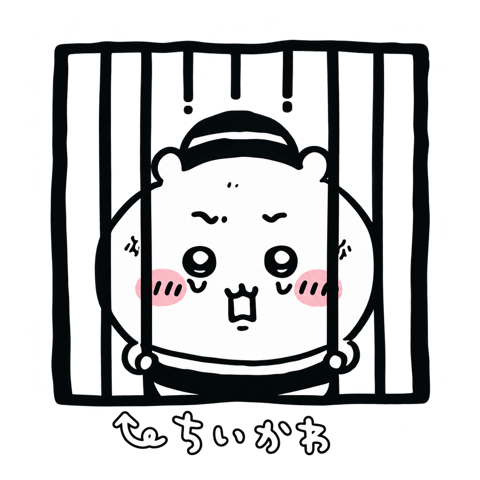
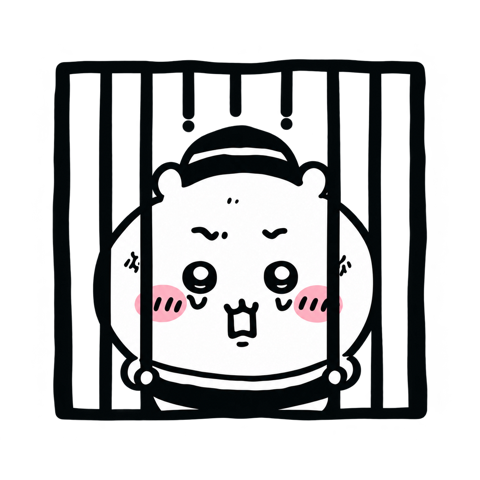
Unify image home shortcuts and remove COF entrance caption

Changed region(s): [[0.0938, 0.0625, 0.9062, 0.9688]]

diff --git a/tools/home/return-home.js b/tools/home/return-home.js
@@ -1,13 +1,36 @@
-/* Survival's standalone homepage shortcut; no account or app state access. */
+/* Shared home shortcut. Reads layout only; never accesses account or app state. */
 (()=>{
   const mount=()=>{
     if(document.getElementById('chemex-return-home'))return;
-    const link=document.createElement('a');
-    link.id='chemex-return-home';link.href='/';link.title='返回 ChemEx 主页';link.setAttribute('aria-label','返回 ChemEx 主页');
-    const image=document.createElement('img');image.src='/home-assets/return-home.png?v=20261020';image.alt='返回 ChemEx 主页';image.width=44;image.height=44;
+    const survival=location.pathname.startsWith('/survival/');
+    const link=document.createElement('a');link.id='chemex-return-home';link.href='/';link.title='返回 ChemEx 主页';link.setAttribute('aria-label','返回 ChemEx 主页');
+    const image=document.createElement('img');image.src='/home-assets/return-home.png?v=20261020';image.alt='';image.width=56;image.height=56;
     image.style.cssText='display:block;width:100%;height:100%;object-fit:contain';link.append(image);
-    link.style.cssText='position:fixed;left:max(12px,env(safe-area-inset-left));top:max(12px,env(safe-area-inset-top));width:44px;height:44px;z-index:1000;background:transparent;border:0;border-radius:12px;cursor:pointer;';
-    document.body.append(link);
+    link.style.cssText='position:fixed;left:max(12px,env(safe-area-inset-left));top:max(12px,env(safe-area-inset-top));width:56px;height:56px;z-index:1000;background:transparent;border:0;border-radius:12px;cursor:pointer;';document.body.append(link);
+    let queued=false;
+    const place=()=>{
+      queued=false;
+      if(survival){
+        const visible=e=>e.getBoundingClientRect().width>0 && e.getBoundingClientRect().height>0;
+        const clock=[...document.querySelectorAll('.desktop-time-panel strong')].find(visible) || [...document.querySelectorAll('.player-shell .top-bar h1,.mobile-shell .top-bar h1,.top-bar h1')].find(visible);
+        link.hidden=!clock;
+        if(clock){
+          const range=document.createRange();range.selectNodeContents(clock);const r=range.getBoundingClientRect();
+          link.style.left=Math.max(8,Math.min(r.right+10,innerWidth-64))+'px';
+          link.style.top=Math.max(8,r.top+(r.height-56)/2)+'px';
+        }
+      }else{
+        // Keep the reader's own back-to-library control and other header controls usable.
+        for(const header of document.querySelectorAll('.site-header,.reader-header,header.top')){
+          if(header.getBoundingClientRect().left<76)header.style.paddingLeft='80px';
+        }
+        for(const old of document.querySelectorAll('header.top a.back,.site-header nav a[href="../"]'))old.hidden=true;
+      }
+    };
+    const schedule=()=>{if(!queued){queued=true;requestAnimationFrame(place)}};
+    new MutationObserver(schedule).observe(document.body,{childList:true,subtree:true});
+    window.addEventListener('resize',schedule,{passive:true});window.addEventListener('scroll',schedule,{passive:true});
+    place();
   };
   if(document.readyState==='loading')document.addEventListener('DOMContentLoaded',mount,{once:true});else mount();
 })();

diff --git a/tools/home/index.html b/tools/home/index.html
@@ -2,7 +2,7 @@
 <a class="skip" href="#main">跳到主要内容</a><header><a class="brand" href="/" aria-label="ChemEx 首页">Che<span>m</span>E<span>x</span><i></i></a><a class="account" href="/auth/account">账号 ↗</a></header>
 <main id="main"><h1 class="sr">我的主页</h1>
 <div class="entrance-grid" aria-label="工具入口">
-<a class="entrance" id="research" href="/research/" aria-label="进入 COF 科研工具箱"><img src="/home-assets/entrances/cof.png?v=jail-20261020" width="480" height="480" alt="" fetchpriority="high"><h2>COF 科研工具箱</h2><small>RESEARCH</small></a>
+<a class="entrance" id="research" href="/research/" aria-label="进入 COF 科研工具箱"><img src="/home-assets/entrances/cof.png?v=no-caption-20261020" width="480" height="480" alt="" fetchpriority="high"><h2>COF 科研工具箱</h2><small>RESEARCH</small></a>
 <a class="entrance" id="entertainment" href="/miying/" aria-label="进入觅影"><img src="/home-assets/entrances/miying.png" width="480" height="480" alt=""><h2>觅影 · 影视</h2><small>MIYING</small></a>
 <a class="entrance" href="/epubreader/" aria-label="进入 EPUB 阅读器"><img src="/home-assets/entrances/epubreader.png" width="480" height="480" alt=""><h2>EPUB · 阅读</h2><small>EPUBREADER</small></a>
 <a class="entrance" id="life" href="/survival/" aria-label="进入生存计划"><img src="/home-assets/entrances/survival.png" width="480" height="480" alt=""><h2>生存计划</h2><small>SURVIVAL</small></a>

diff --git a/scripts/deploy-return-links.py b/scripts/deploy-return-links.py
@@ -1,0 +1,62 @@
+"""Publish the shared home shortcut without replacing live application sources."""
+import datetime,hashlib,json,os,re,shutil,subprocess,sys,tarfile
+from pathlib import Path
+
+SCRIPT='<script defer src="/home-assets/return-home.js?v=shared-56-20261020"></script>'
+OLD='<script defer src="/home-assets/return-home.js?v=20261020"></script>'
+
+def update_nginx(original):
+    updated=original
+    for route in ['survival','research','miying','epubreader']:
+        pattern=r'(    location \^~ /'+route+r'/ \{\n)(.*?)(    }\n)'
+        def patch(match):
+            body=match[2]
+            if SCRIPT in body:raise RuntimeError('Already installed')
+            if route=='survival':
+                if body.count(OLD)!=1:raise RuntimeError('Inspect Survival shortcut')
+                body=body.replace(OLD,SCRIPT,1)
+            elif "sub_filter '</head>'" in body:
+                body,count=re.subn(r"(sub_filter '</head>' '[^\n]*)(</head>';)",lambda m:m[1]+SCRIPT+m[2],body)
+                if count!=1:raise RuntimeError('Inspect existing head filter')
+            else:
+                if 'sub_filter' in body:raise RuntimeError('Inspect other filters')
+                body="        sub_filter_once on;\n        sub_filter '</head>' '"+SCRIPT+"</head>';\n"+body
+            return match[1]+body+match[3]
+        updated,count=re.subn(pattern,patch,updated,flags=re.S)
+        if count!=1:raise RuntimeError('Expected unique '+route+' location')
+    return updated
+
+def main():
+    commit,archive_path=sys.argv[1:]
+    if not re.fullmatch('[0-9a-f]{40}',commit):raise ValueError('Expected full commit')
+    base=Path('/srv/chemex/home');current=base/'current';source=current.resolve(strict=True)
+    if not current.is_symlink() or source.parent!=base/'releases':raise RuntimeError('Unmanaged home')
+    if any(p.is_symlink() for p in source.rglob('*')):raise RuntimeError('Inspect nested symlinks')
+    config=Path('/etc/nginx/sites-available/chemex-space.conf');original=config.read_text();updated=update_nginx(original)
+    with tarfile.open(archive_path) as archive:
+        members=archive.getmembers()
+        if sorted(m.name for m in members)!=['cof.png','return-home.js']:raise RuntimeError('Unexpected archive entries')
+        changes={}
+        for member in members:
+            if not member.isfile() or member.size>2000000:raise RuntimeError('Unexpected file')
+            changes['assets/entrances/cof.png' if member.name=='cof.png' else 'assets/return-home.js']=archive.extractfile(member).read()
+    html=(source/'index.html').read_bytes()
+    old=b'cof.png?v=jail-20261020';new=b'cof.png?v=no-caption-20261020'
+    if html.count(old)!=1:raise RuntimeError('Unexpected COF image URL')
+    changes['index.html']=html.replace(old,new,1)
+    release=base/'releases'/commit;shutil.copytree(source,release)
+    for name,data in changes.items():(release/name).write_bytes(data);(release/name).chmod(0o644)
+    for p in source.rglob('*'):
+        rel=str(p.relative_to(source))
+        if p.is_file() and rel not in changes:
+            if hashlib.sha256(p.read_bytes()).digest()!=hashlib.sha256((release/rel).read_bytes()).digest():raise RuntimeError('Unexpected resource change')
+    backup=base/'backups'/datetime.datetime.now(datetime.timezone.utc).strftime('%Y%m%dT%H%M%SZ');backup.mkdir(parents=True);shutil.copy2(config,backup/'nginx.conf')
+    pending=base/('current-'+commit);pending.symlink_to(release);os.replace(pending,current)
+    try:
+        config.write_text(updated);subprocess.run(['nginx','-t'],check=True);subprocess.run(['systemctl','reload','nginx'],check=True)
+    except Exception:
+        shutil.copy2(backup/'nginx.conf',config);pending.symlink_to(source);os.replace(pending,current)
+        subprocess.run(['nginx','-t'],check=True);subprocess.run(['systemctl','reload','nginx'],check=True);raise
+    print(json.dumps({'commit':commit,'previous':str(source),'release':str(release),'backup':str(backup),'changes':list(changes)}))
+
+if __name__=='__main__':main()

diff --git a/docs/PERSONAL_HOME.md b/docs/PERSONAL_HOME.md
@@ -40,3 +40,7 @@ COF uses the owner-provided jail-bar illustration with transparent exterior and 
 The Survival page includes a 44px transparent character link in the top-left corner back to `/`, named 返回 ChemEx 主页 for accessibility. Its independent script is injected alongside the existing authenticated session bridge; it does not read or change app/account state. deploy-home-navigation.py installs layout and shortcut assets in a new home release and backs up Nginx before adding only that script to the Survival UI filter. Survival app files and APIs stay unchanged.
 
 The homepage omits the research/leisure/life navigation text from the top-right and bottom-right corners, per owner request.
+
+The shared transparent return-home image is now 56px: on Survival it sits to the right of the desktop clock or, on mobile, the 生存计划 title; on Miying, COF and EPUB it sits in the top-left corner. It preserves EPUB back-to-library controls, hides superseded text home links, and uses isolated Nginx HTML script injection without rebuilding or replacing application sources. deploy-return-links.py keeps the previous home release and Nginx configuration for rollback.
+
+The COF entrance omits the handwritten Japanese caption and arrow below the jail frame. All four image boxes share their size, vertical center and caption baseline; illustration proportions stay intact.

diff --git a/docs/GUIDELINE.md b/docs/GUIDELINE.md
@@ -346,3 +346,5 @@ Home, film, EPUB and owner-account pages align with the existing cool white / bl
 Homepage entrances now use owner-provided transparent illustrations without cards; Survival uses the sleeping-on-pillow image. EPUB adds a per-book 米黄 option while the homepage remains blue-gray. COF and Survival app sources/styles stay untouched. See `PERSONAL_HOME.md` and `EPUB_READER.md`.
 
 Homepage entrances now stay in one compact row with equal image boxes and fit common viewport heights. Survival gains an isolated transparent-image shortcut to the ChemEx homepage; app sources, API behavior and the authentication bridge remain unchanged.
+
+The shared transparent return-home image is now 56px: on Survival it sits to the right of the desktop clock or, on mobile, the 生存计划 title; on Miying, COF and EPUB it sits in the top-left corner. It preserves EPUB back-to-library controls, hides superseded text home links, and uses isolated Nginx HTML script injection without rebuilding or replacing application sources. deploy-return-links.py keeps the previous home release and Nginx configuration for rollback.

diff --git a/docs/HANDOFF.md b/docs/HANDOFF.md
@@ -328,3 +328,5 @@ Home, film, EPUB and owner-account pages align with the existing cool white / bl
 Homepage entrances now use owner-provided transparent illustrations without cards; Survival uses the sleeping-on-pillow image. EPUB adds a per-book 米黄 option while the homepage remains blue-gray. COF and Survival app sources/styles stay untouched. See `PERSONAL_HOME.md` and `EPUB_READER.md`.
 
 Homepage entrances now stay in one compact row with equal image boxes and fit common viewport heights. Survival gains an isolated transparent-image shortcut to the ChemEx homepage; app sources, API behavior and the authentication bridge remain unchanged.
+
+The shared transparent return-home image is now 56px: on Survival it sits to the right of the desktop clock or, on mobile, the 生存计划 title; on Miying, COF and EPUB it sits in the top-left corner. It preserves EPUB back-to-library controls, hides superseded text home links, and uses isolated Nginx HTML script injection without rebuilding or replacing application sources. deploy-return-links.py keeps the previous home release and Nginx configuration for rollback.

diff --git a/docs/ROADMAP.md b/docs/ROADMAP.md
@@ -315,3 +315,5 @@ Home, film, EPUB and owner-account pages align with the existing cool white / bl
 Homepage entrances now use owner-provided transparent illustrations without cards; Survival uses the sleeping-on-pillow image. EPUB adds a per-book 米黄 option while the homepage remains blue-gray. COF and Survival app sources/styles stay untouched. See `PERSONAL_HOME.md` and `EPUB_READER.md`.
 
 Homepage entrances now stay in one compact row with equal image boxes and fit common viewport heights. Survival gains an isolated transparent-image shortcut to the ChemEx homepage; app sources, API behavior and the authentication bridge remain unchanged.
+
+The shared transparent return-home image is now 56px: on Survival it sits to the right of the desktop clock or, on mobile, the 生存计划 title; on Miying, COF and EPUB it sits in the top-left corner. It preserves EPUB back-to-library controls, hides superseded text home links, and uses isolated Nginx HTML script injection without rebuilding or replacing application sources. deploy-return-links.py keeps the previous home release and Nginx configuration for rollback.
